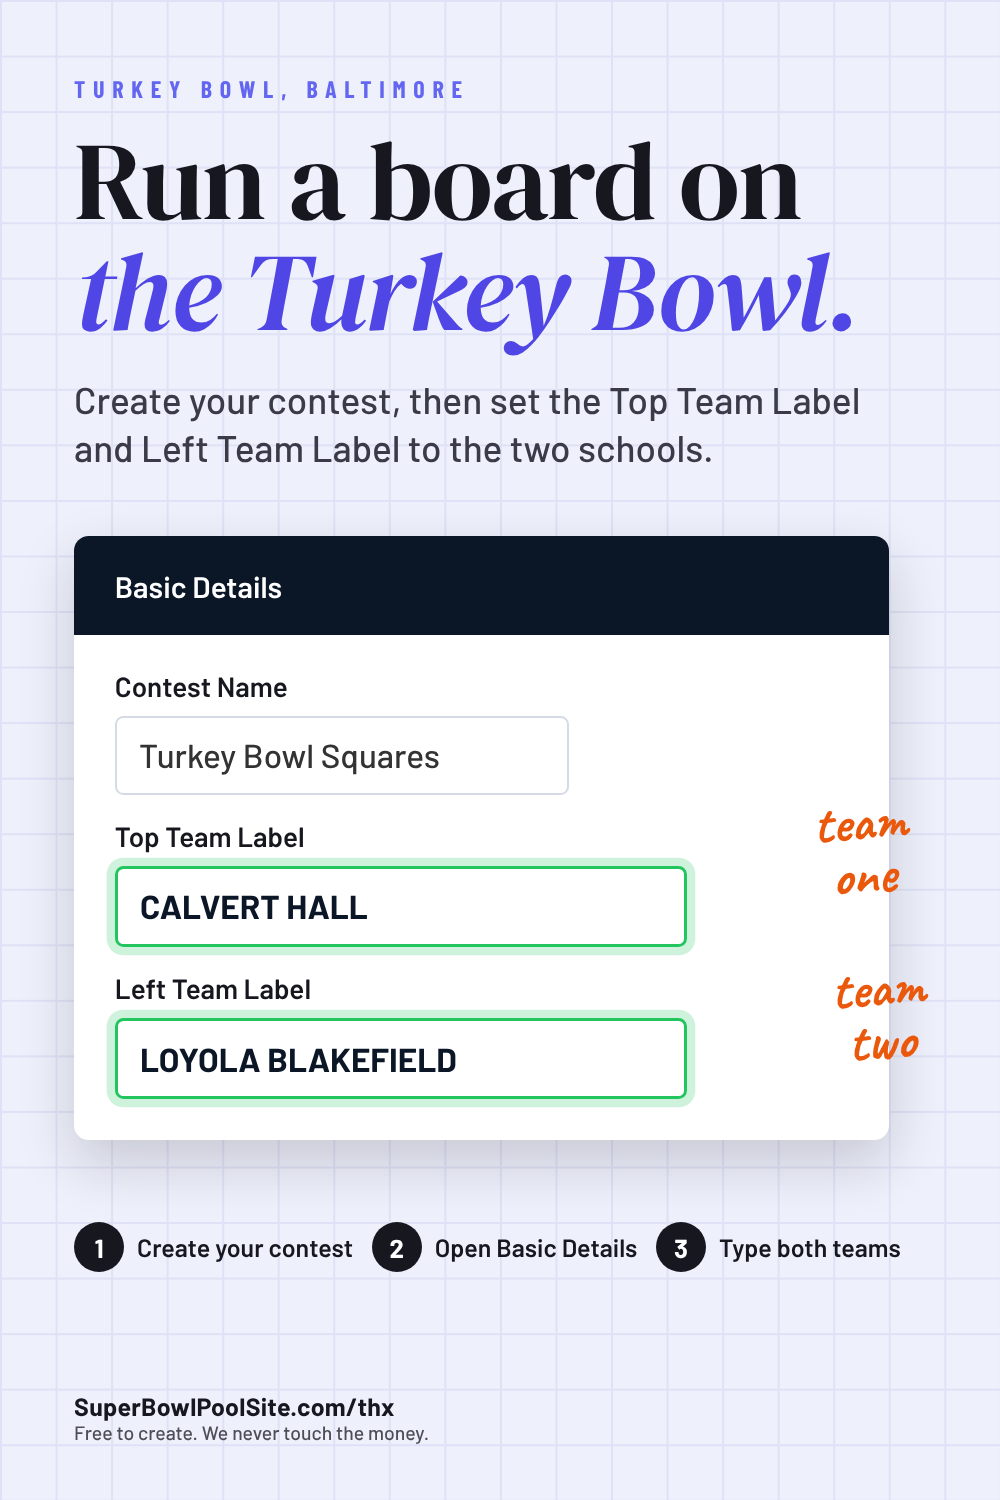
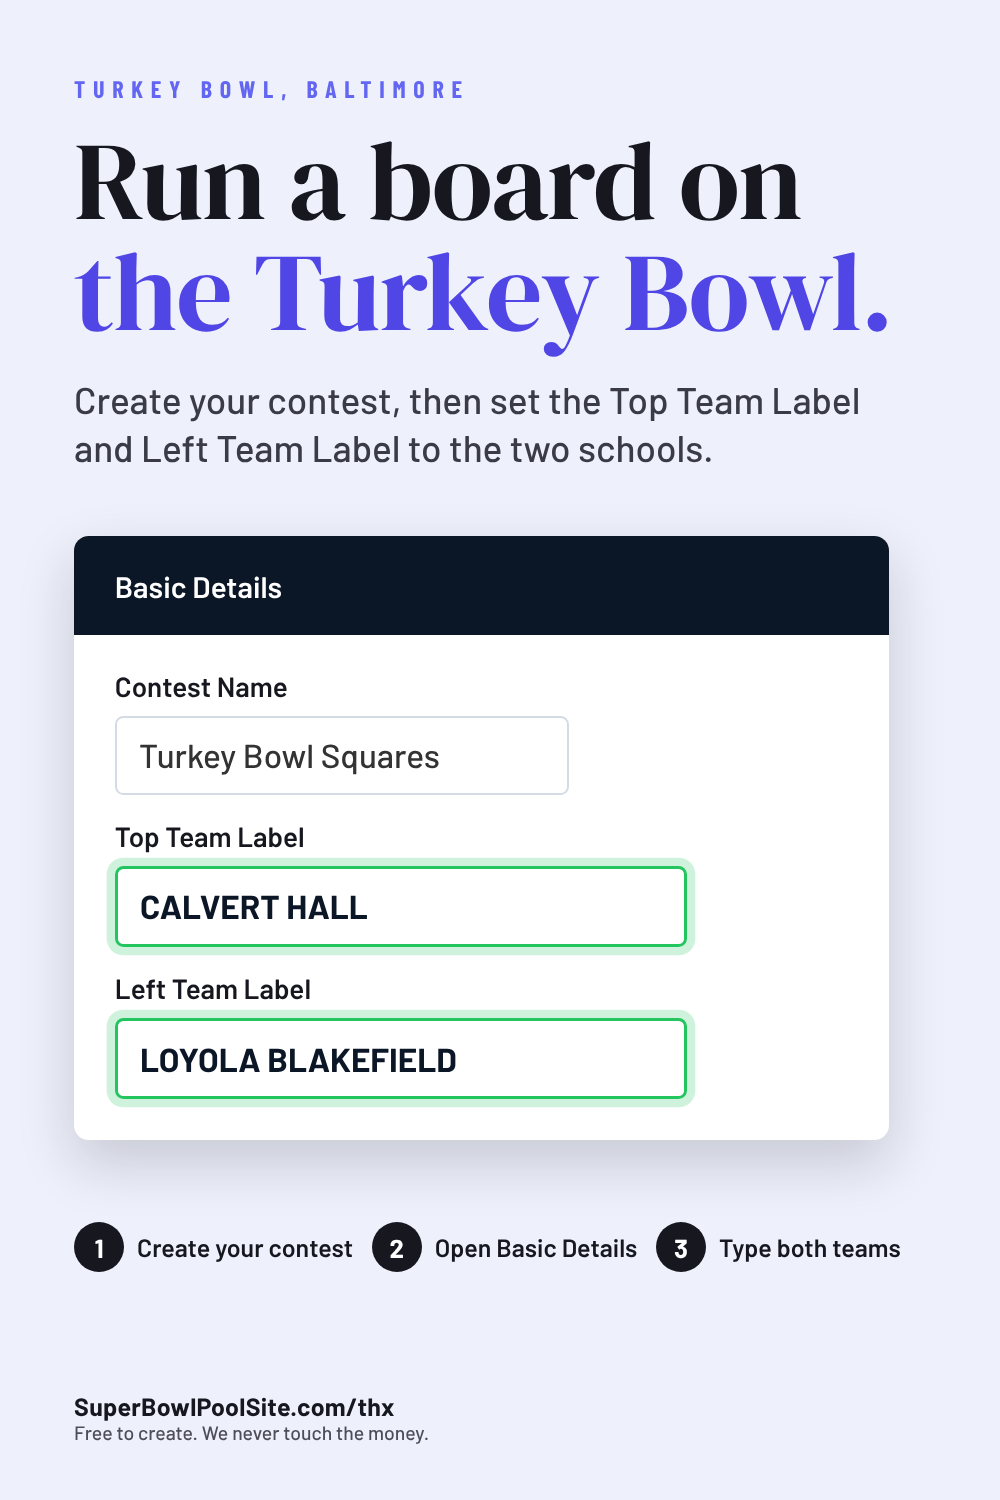
Fresh graphics: drop italic and handwritten type and the grid and lined backgrounds
Claude-Session: https://claude.ai/code/session_01YR2mTS93amP6RmLMNxxbot

Changed region(s): [[0.062, 0.1533, 0.899, 0.2453], [0.806, 0.5213, 0.899, 0.6133], [0.837, 0.644, 0.93, 0.7053]]

diff --git a/templates/fresh/fresh.py b/templates/fresh/fresh.py
@@ -29,8 +29,6 @@ FONT_FILES = [
     ("Barlow Condensed", 700, "normal", "BarlowCondensed-700.ttf", "truetype"),
     ("Barlow Condensed", 800, "normal", "BarlowCondensed-800.ttf", "truetype"),
     ("DM Serif Display", 400, "normal", "DMSerifDisplay-Regular.woff2", "woff2"),
-    ("DM Serif Display", 400, "italic", "DMSerifDisplay-Italic.woff2", "woff2"),
-    ("Caveat", 700, "normal", "Caveat-700.woff2", "woff2"),
 ]
 
 
@@ -55,7 +53,6 @@ body{font-family:Barlow,sans-serif;-webkit-font-smoothing:antialiased}
 .page{position:relative;overflow:hidden;width:100vw;height:100vh;display:flex;flex-direction:column}
 .serif{font-family:'DM Serif Display',serif;font-weight:400}
 .cond{font-family:'Barlow Condensed',sans-serif;font-weight:800;text-transform:uppercase}
-.hand{font-family:Caveat,cursive;font-weight:700}
 .eyebrow{font-family:'Barlow Condensed';font-weight:700;letter-spacing:.32em;text-transform:uppercase;font-size:2.6rem}
 .url{font-weight:700;font-size:2.7rem;letter-spacing:.01em}
 .fine{font-weight:500;font-size:2.1rem;opacity:.75}
@@ -137,18 +134,14 @@ def quote_card(fmt, q):
 
 
 # ------------------------------------------------------------ type your teams
-ARROW = """<svg viewBox="0 0 200 120" class="arr {cls}"><path d="M8 20 C 70 10, 140 30, 180 95" fill="none" stroke="#ea580c" stroke-width="7" stroke-linecap="round"/>
-<path d="M150 88 L183 100 L188 66" fill="none" stroke="#ea580c" stroke-width="7" stroke-linecap="round" stroke-linejoin="round"/></svg>"""
-
-
 def form_card(fmt, d):
     css = """
 .page{background:#eef0fb;color:#17171f;padding:8rem 8rem 6rem;
- background-image:linear-gradient(#dfe2f6 2px,transparent 2px),linear-gradient(90deg,#dfe2f6 2px,transparent 2px);background-size:6rem 6rem}
+}
 .f9x16{padding:22rem 8rem 30rem}
 .eyebrow{color:#6366f1}
 h1{font-family:'DM Serif Display';font-weight:400;font-size:10rem;line-height:1;margin-top:2.4rem;letter-spacing:-.01em}
-h1 em{font-style:italic;color:#4f46e5}
+h1 em{font-style:normal;color:#4f46e5}
 .lede{font-size:3.5rem;font-weight:500;line-height:1.3;margin-top:3rem;color:#3b3a48;max-width:88rem}
 .card{background:#fff;border-radius:1.6rem;box-shadow:0 2.4rem 6rem rgba(23,23,31,.18);overflow:hidden;margin-top:6rem;width:76rem;position:relative}
 .card .hd{background:#0b1626;color:#fff;font-weight:600;font-size:3.2rem;padding:3.4rem 4.4rem}
@@ -157,8 +150,6 @@ h1 em{font-style:italic;color:#4f46e5}
 .lab:first-child{margin-top:0}
 .in{border:2px solid #d5dbe5;border-radius:.9rem;padding:1.9rem 2.4rem;font-size:3.2rem;font-weight:500;color:#333;width:62%}
 .in.hl{border:3px solid #22c55e;box-shadow:0 0 0 .9rem rgba(34,197,94,.22);font-weight:700;color:#0b1626;width:78%}
-.note{position:absolute;font-family:Caveat;font-weight:700;color:#ea580c;font-size:6rem;line-height:.95;transform:rotate(-4deg);text-align:center}
-.arr{position:absolute;width:15rem;height:9rem}
 .foot{margin-top:auto;display:flex;justify-content:space-between;align-items:flex-end}
 .steps{display:flex;gap:2.4rem;font-weight:600;font-size:2.6rem;margin-top:auto;margin-bottom:4rem}
 .f2x3 h1{font-size:12rem}.f2x3 .lede{font-size:4rem}.f2x3 .card{width:88rem;margin-top:7rem}.f2x3 .in{font-size:3.6rem}.f2x3 .lab{font-size:3rem}.f2x3 .steps{font-size:2.7rem;gap:2rem}.steps div{white-space:nowrap}
@@ -176,23 +167,17 @@ h1 em{font-style:italic;color:#4f46e5}
 <div class="lab">Top Team Label</div><div class="in hl">{E(d['top'])}</div>
 <div class="lab">Left Team Label</div><div class="in hl">{E(d['left'])}</div>"""
     card = f"""<div class="card"><div class="hd">Basic Details</div><div class="bd">{labels}</div></div>"""
-    notes = """<div class="note" style="right:-1rem;top:{t1}">team one</div>
-<div class="note" style="right:-1rem;top:{t2}">team two</div>"""
     foot = f"""<div class="foot"><div><div class="url">{E(d.get('url_label', 'SuperBowlPoolSite.com/thx'))}</div>
 <div class="fine">Free to create. We never touch the money.</div></div></div>"""
     steps = """<div class="steps"><div><b>1</b>Create your contest</div><div><b>2</b>Open Basic Details</div><div><b>3</b>Type both teams</div></div>"""
     if fmt == "16x9":
         body = f"""<div class="colA"><div class="eyebrow">{E(d['eyebrow'])}</div><h1>{d['title']}</h1>
 <div class="lede">{E(d['lede'])}</div><div style="margin-top:auto">{foot}</div></div>
-<div style="position:relative;display:flex;align-items:center">{card}
-<div class="note" style="left:52rem;top:30.5rem;font-size:5rem">team one</div>
-<div class="note" style="left:56rem;top:45rem;font-size:5rem">team two</div></div>"""
+<div style="position:relative;display:flex;align-items:center">{card}</div>"""
     else:
         body = f"""<div class="eyebrow">{E(d['eyebrow'])}</div><h1>{d['title']}</h1>
 <div class="lede">{E(d['lede'])}</div>
-<div style="position:relative">{card}
-<div class="note" style="left:80rem;top:35rem">team<br>one</div>
-<div class="note" style="left:82rem;top:53rem">team<br>two</div></div>
+<div style="position:relative">{card}</div>
 {steps if fmt != '2x3' else steps}{foot}"""
     return page(fmt, body, css)
 
@@ -200,18 +185,17 @@ h1 em{font-style:italic;color:#4f46e5}
 # ------------------------------------------------------------ rivalry program
 PROGRAM_CSS = """
 .page{background:#f4efe4;color:#17171f;padding:0}
-.page:before{content:"";position:absolute;inset:0;background:repeating-linear-gradient(0deg,transparent 0 1.1rem,rgba(23,23,31,.025) 1.1rem 1.2rem);pointer-events:none}
 .band{background:#17171f;color:#f4efe4;padding:7rem 7rem 5rem;position:relative}
 .f9x16 .band{padding-top:20rem}
 .band .eyebrow{color:#f59e0b;font-size:2.4rem}
 .band h2{font-family:'Barlow Condensed';font-weight:800;text-transform:uppercase;font-size:11rem;line-height:.9;margin-top:1.6rem;letter-spacing:.005em}
-.band .tag{font-family:'DM Serif Display';font-style:italic;font-size:4rem;color:#c7c2b6;margin-top:1.4rem}
+.band .tag{font-family:'DM Serif Display';font-size:4rem;color:#c7c2b6;margin-top:1.4rem}
 .band .count{position:absolute;right:7rem;bottom:5rem;text-align:right;font-family:'Barlow Condensed';font-weight:700;font-size:2.6rem;letter-spacing:.2em;color:#c7c2b6}
 .band .count b{display:block;font-size:12rem;line-height:.85;letter-spacing:0;color:#f4efe4}
 .rows{padding:3rem 7rem 0;position:relative}
 .row{display:flex;align-items:baseline;justify-content:space-between;gap:2rem;border-bottom:2px solid rgba(23,23,31,.14);padding:2.05rem 0}
 .row .m{font-family:'DM Serif Display';font-size:4.15rem;line-height:1.05}
-.row .m i{font-style:italic;color:#ea580c;font-size:.8em;padding:0 .5rem}
+.row .m i{font-style:normal;color:#ea580c;font-size:.8em;padding:0 .9rem}
 .row .n{font-family:'Barlow Condensed';font-weight:700;text-transform:uppercase;letter-spacing:.12em;font-size:2.2rem;color:#4f46e5;white-space:nowrap}
 .sub{font-family:'Barlow Condensed';font-weight:800;text-transform:uppercase;letter-spacing:.18em;font-size:2.6rem;color:#ea580c;margin:3.4rem 0 .4rem}
 .pfoot{margin-top:auto;padding:0 7rem 5.5rem;display:flex;justify-content:space-between;align-items:flex-end;position:relative}
@@ -250,12 +234,12 @@ def program_cover(fmt, d):
 .f9x16 .cover{padding:22rem 8rem 28rem}
 .tk{border:3px solid #17171f;border-radius:1.4rem;padding:1.6rem 2.6rem;align-self:flex-start;font-family:'Barlow Condensed';font-weight:700;letter-spacing:.24em;font-size:2.6rem;text-transform:uppercase}
 .big{font-family:'DM Serif Display';font-size:15rem;line-height:.92;margin-top:5rem;letter-spacing:-.015em}
-.big em{color:#ea580c}
+.big em{color:#ea580c;font-style:normal}
 .lede{font-size:3.8rem;font-weight:500;line-height:1.3;margin-top:4.5rem;max-width:84rem;color:#3b3a48}
 .states{display:flex;gap:1.6rem;flex-wrap:wrap;margin-top:6rem}
 .states span{background:#17171f;color:#f4efe4;font-family:'Barlow Condensed';font-weight:700;letter-spacing:.14em;text-transform:uppercase;font-size:2.7rem;padding:1.3rem 2.4rem;border-radius:99px}
 .swipe{margin-top:auto;display:flex;justify-content:space-between;align-items:flex-end}
-.swipe .hand{font-size:7rem;color:#4f46e5;transform:rotate(-3deg)}
+.swipe .hand{font-family:'Barlow Condensed';font-weight:700;letter-spacing:.24em;text-transform:uppercase;font-size:2.6rem;color:#4f46e5}
 """
     body = f"""<div class="cover"><div class="tk">{E(d['ticket'])}</div><div class="big">{d['title']}</div>
 <div class="lede">{E(d['lede'])}</div><div class="states">{''.join(f'<span>{E(s)}</span>' for s in d['states'])}</div>
@@ -269,7 +253,7 @@ def cta_card(fmt, d):
 .f9x16{padding:22rem 8rem 30rem}
 .eyebrow{color:#f59e0b}
 .big{font-family:'DM Serif Display';font-size:12.5rem;line-height:.95;margin-top:3rem;letter-spacing:-.01em}
-.big em{color:#22c55e;font-style:italic}
+.big em{color:#22c55e;font-style:normal}
 .split{display:flex;margin-top:7rem;border-radius:1.6rem;overflow:hidden;font-family:'Barlow Condensed';font-weight:800;text-transform:uppercase}
 .split div{flex:1;padding:4rem 3.6rem}
 .split .a{background:#6366f1;color:#fff}.split .b{background:#22c55e;color:#06210f}

diff --git a/templates/fresh/posts.py b/templates/fresh/posts.py
@@ -77,13 +77,13 @@ POSTS = [
     ("form-malden-medford", "form", ["4x5"], dict(
         eyebrow="Not just the NFL", title="Your town's game<br><em>counts too.</em>",
         lede="Create your contest, then type your two teams into Top Team Label and Left Team Label.",
-        contest="Thanksgiving Rivalry Squares", top="MALDEN", left="MEDFORD")),
+        contest="Rivalry Squares", top="MALDEN", left="MEDFORD")),
 
     # Thanksgiving rivalry program (Instagram carousel)
     ("rivalry-01-cover", "cover", ["4x5"], dict(
         ticket="Thanksgiving morning 2026", title="The other<br><em>Thanksgiving</em><br>games.",
         lede="Before the NFL kicks off, towns across the Northeast play rivalries that go back more than a century. 27 of them, by state.",
-        states=["Massachusetts", "Connecticut", "Rhode Island", "NY", "NJ", "PA", "Maine"], hand="swipe for yours")),
+        states=["Massachusetts", "Connecticut", "Rhode Island", "NY", "NJ", "PA", "Maine"], hand="Swipe for yours")),
     ("rivalry-02-massachusetts", "program", ["4x5"], dict(
         eyebrow="Thanksgiving rivalries", title="Massachusetts", tag="The heart of the tradition", count=11,
         rows=MA, page="2 / 6", css=".row{padding:1.55rem 0}")),

diff --git a/templates/README.md b/templates/README.md
@@ -55,5 +55,5 @@ Afternoon NFL times and networks come from `../schedule-2026.md` and can still c
 testimonial quote cards (`quote`), a "type your two teams" how-to built on the Basic Details form (`form`),
 a Thanksgiving rivalry program (`cover`, `program`) and a 50/50 call to action (`cta`).
 Edit `fresh/posts.py`, then run `python3 fresh/fresh.py` (or `python3 fresh/fresh.py quote-` for some).
-PNGs land in `/fresh` at the repo root. Extra open-license fonts: DM Serif Display and Caveat (in `fonts/`).
+PNGs land in `/fresh` at the repo root. Extra open-license font: DM Serif Display (in `fonts/`).
 Testimonials are quoted exactly from the site. Do not edit the quote text.
